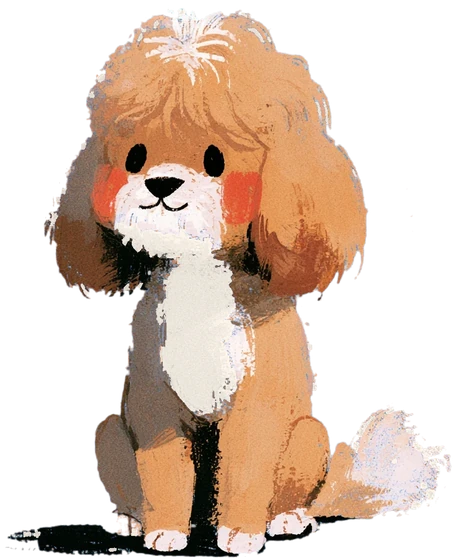
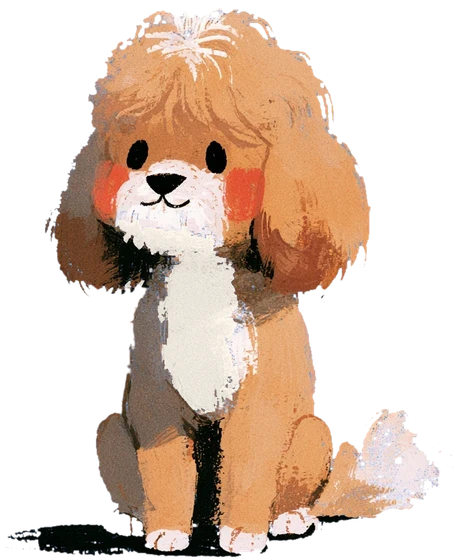
Gift: smoother — the box and letter share one fixed place (nothing jumps), Fern moves by transform only, art preloaded; Fern's head edge cleaned of white specks

diff --git a/components/sisi/journey-v2/GiftNote.tsx b/components/sisi/journey-v2/GiftNote.tsx
@@ -34,7 +34,15 @@ export function usePendingGift(enabled: boolean): Gift | null {
     let alive = true;
     fetch(preview ? "/api/gift?preview=1" : "/api/gift")
       .then((r) => r.json())
-      .then((d) => alive && d?.ok && (preview || !hasGift(d.note.gift)) && setGift(d.note))
+      .then((d) => {
+        if (!alive || !d?.ok || (!preview && hasGift(d.note.gift))) return;
+        // load the art before it is shown, so nothing pops in mid-animation
+        for (const src of PRELOAD) {
+          const img = new Image();
+          img.src = src;
+        }
+        setGift(d.note);
+      })
       .catch(() => {});
     return () => {
       alive = false;
@@ -46,6 +54,15 @@ export function usePendingGift(enabled: boolean): Gift | null {
 const ART = "/V2/gift/";
 const FERN = "/V2/poodle-walk/fern-sit.webp";
 const EASE = [0.22, 1, 0.36, 1] as const;
+const PRELOAD = [
+  FERN,
+  ...["gift-inside", "gift-lid", "gift-front", "envelope-back", "envelope-flap-open", "envelope-front", "envelope-flap-closed"].map(
+    (n) => `${ART}${n}.webp`,
+  ),
+  "/V2/onboarding/star.webp",
+];
+/** in the box, Fern's lower half is hidden behind the box's front (px) */
+const IN_BOX = 56;
 /** how far the envelope reaches below the letter once it is out (px) */
 const LETTER_DROP = 62;
 
@@ -61,23 +78,30 @@ export function GiftNote({ gift, open, onOpenMap }: { gift: Gift | null; open: b
   useEffect(() => setMounted(true), []);
   useEffect(() => {
     if (step !== "opening") return;
-    const t = setTimeout(() => setStep("note"), 1500);
+    const t = setTimeout(() => setStep("note"), 1300);
     return () => clearTimeout(t);
   }, [step]);
   useEffect(() => {
     if (step !== "note") return;
-    const a = setTimeout(() => setEnv("open"), 900);
-    const b = setTimeout(() => setEnv("out"), 1400);
+    const a = setTimeout(() => setEnv("open"), 850);
+    const b = setTimeout(() => setEnv("out"), 1250);
     return () => {
       clearTimeout(a);
       clearTimeout(b);
     };
   }, [step]);
+  // the letter is laid out from the start (hidden), so this is known before it shows
   useLayoutEffect(() => {
-    if (step !== "note" || !wrapRef.current || !letterRef.current) return;
-    const bodyH = ((wrapRef.current.offsetWidth + 12) * 118) / 352;
-    setLift(Math.round(letterRef.current.offsetHeight + LETTER_DROP - bodyH));
-  }, [step]);
+    const measure = () => {
+      if (!wrapRef.current || !letterRef.current) return;
+      const bodyH = ((wrapRef.current.offsetWidth + 12) * 118) / 352;
+      setLift(Math.round(letterRef.current.offsetHeight + LETTER_DROP - bodyH));
+    };
+    measure();
+    document.fonts?.ready.then(measure);
+    window.addEventListener("resize", measure);
+    return () => window.removeEventListener("resize", measure);
+  }, [open, gift, mounted]);
   if (!mounted || !gift) return null;
   const opened = step !== "box";
 
@@ -117,26 +141,26 @@ export function GiftNote({ gift, open, onOpenMap }: { gift: Gift | null; open: b
               <motion.div
                 className="gn-ride"
                 initial={false}
-                animate={{ y: step === "note" && env !== "out" ? lift : 0 }}
-                transition={env === "out" ? { duration: 0.8, ease: EASE } : { duration: 0.5, ease: EASE }}
+                animate={{ y: step !== "note" ? IN_BOX : env !== "out" ? lift : 0 }}
+                transition={{ duration: env === "out" ? 0.9 : 0.7, ease: EASE }}
               >
               <motion.img
                 src={FERN}
                 alt={opened ? "Fern, a little poodle" : ""}
-                className={`gn-fern${step === "note" ? "" : " is-in-box"}`}
+                className="gn-fern"
                 draggable={false}
                 initial={false}
                 animate={
                   step === "note"
-                    ? { y: ["0%", "-14%", "0%"], opacity: 1 }
+                    ? { y: ["0%", "-12%", "0%"], opacity: 1, scaleY: 1 }
                     : opened
-                      ? { y: ["75%", "-24%", "0%"], opacity: [0, 1, 1], scaleY: [0.9, 1.06, 1] }
-                      : { y: "75%", opacity: 0 }
+                      ? { y: ["70%", "-20%", "0%"], opacity: [0, 1, 1], scaleY: [0.92, 1.04, 1] }
+                      : { y: "70%", opacity: 0, scaleY: 0.92 }
                 }
                 transition={
                   step === "note"
-                    ? { duration: 0.8, times: [0, 0.45, 1], ease: "easeInOut" }
-                    : { delay: opened ? 0.3 : 0, duration: 0.75, times: [0, 0.55, 1], ease: "easeOut" }
+                    ? { duration: 0.7, times: [0, 0.45, 1], ease: ["easeOut", "easeIn"] }
+                    : { delay: opened ? 0.25 : 0, duration: 0.8, times: [0, 0.6, 1], ease: ["easeOut", "easeInOut"] }
                 }
               />
               </motion.div>
@@ -144,16 +168,18 @@ export function GiftNote({ gift, open, onOpenMap }: { gift: Gift | null; open: b
 
             {/* below Fern: the box, then the note */}
             <div className="gn-below">
-              <AnimatePresence mode="popLayout" initial={false}>
-                {step !== "note" ? (
-                  <motion.button
+              {/* the box and the letter share one place, both laid out from the start: nothing jumps */}
+              <motion.button
                     key="box"
                     type="button"
                     className="gn-box"
                     aria-label="Open the gift"
                     disabled={opened}
+                    initial={false}
+                    animate={step === "note" ? { y: 30, opacity: 0 } : { y: 0, opacity: 1 }}
+                    transition={{ duration: 0.4, ease: "easeInOut" }}
+                    style={{ pointerEvents: step === "note" ? "none" : undefined }}
                     onClick={() => setStep("opening")}
-                    exit={{ y: 40, opacity: 0, transition: { duration: 0.45, ease: "easeIn" } }}
                   >
                     {/* the open inside sits behind Fern; the front faces (gn-body) in front of her */}
                     {/* eslint-disable-next-line @next/next/no-img-element */}
@@ -174,14 +200,13 @@ export function GiftNote({ gift, open, onOpenMap }: { gift: Gift | null; open: b
                     {/* eslint-disable-next-line @next/next/no-img-element */}
                     <img src={`${ART}gift-front.webp`} alt="" className="gn-body" draggable={false} />
                   </motion.button>
-                ) : (
-                  <motion.div
-                    key="note"
+              <motion.div
                     ref={wrapRef}
                     className="gn-letter-wrap"
-                    initial={{ y: 70, opacity: 0 }}
-                    animate={{ y: 0, opacity: 1 }}
-                    transition={{ duration: 0.5, ease: EASE }}
+                    aria-hidden={step !== "note"}
+                    initial={false}
+                    animate={step === "note" ? { y: 0, opacity: 1 } : { y: 70, opacity: 0 }}
+                    transition={{ duration: 0.7, ease: EASE, delay: step === "note" ? 0.1 : 0 }}
                   >
                     {/* the envelope, layered around the letter:
                         back 0 · open flap 0 · letter 1 · front pocket 2 · closed flap 3 */}
@@ -234,8 +259,6 @@ export function GiftNote({ gift, open, onOpenMap }: { gift: Gift | null; open: b
                       </motion.article>
                     </div>
                   </motion.div>
-                )}
-              </AnimatePresence>
             </div>
           </div>
 
@@ -278,11 +301,8 @@ export function GiftNote({ gift, open, onOpenMap }: { gift: Gift | null; open: b
             .gn-for, .gn-hint { margin: 0; color: var(--sisi-paper); }
             /* Fern's place: her paws are on its bottom line */
             .gn-stage { position: relative; z-index: 1; pointer-events: none; width: 100%; height: 190px; display: flex; justify-content: center; }
-            .gn-fern { position: absolute; bottom: -6px; height: 196px; width: auto; z-index: 1; filter: drop-shadow(0 6px 10px rgba(0, 0, 0, 0.2)); }
+            .gn-fern { position: absolute; bottom: -6px; height: 196px; width: auto; z-index: 1; filter: drop-shadow(0 6px 10px rgba(0, 0, 0, 0.2)); will-change: transform, opacity; transform-origin: 50% 100%; }
             .gn-stage.is-on-note { z-index: 3; }
-            /* in the box: her lower half stays behind the box's front faces */
-            .gn-fern { transition: bottom 0.5s var(--ease-sisi, ease); }
-            .gn-fern.is-in-box { bottom: -62px; }
             .gn-glow {
               position: absolute;
               bottom: -40px;
@@ -291,9 +311,11 @@ export function GiftNote({ gift, open, onOpenMap }: { gift: Gift | null; open: b
               border-radius: 50%;
               background: radial-gradient(circle, rgba(255, 236, 170, 0.75), rgba(255, 220, 140, 0.25) 45%, transparent 70%);
               z-index: 0;
+              will-change: transform, opacity;
             }
             /* no stacking context here: the box's layers sit around Fern (inside 0 · Fern 1 · front 2 · lid 3) */
-            .gn-below { position: relative; width: 100%; display: flex; justify-content: center; }
+            .gn-below { position: relative; width: 100%; display: grid; justify-items: center; align-items: start; }
+            .gn-below > * { grid-area: 1 / 1; }
             .gn-box {
               position: relative;
               width: 190px;
@@ -311,7 +333,7 @@ export function GiftNote({ gift, open, onOpenMap }: { gift: Gift | null; open: b
             .gn-body { display: block; width: 190px; position: relative; z-index: 2; }
             .gn-inside { position: absolute; inset: 0; width: 100%; z-index: 0; }
             /* the letter: lined paper, deckled, half out of a rose envelope */
-            .gn-letter-wrap { position: relative; width: 100%; max-width: 340px; }
+            .gn-letter-wrap { position: relative; width: 100%; max-width: 340px; pointer-events: none; will-change: transform, opacity; }
             /* the envelope: one box the size of its body, flaps hinged on its top edge */
             .gn-env { position: absolute; left: -6px; right: -6px; bottom: 0; aspect-ratio: 352 / 118; pointer-events: none; }
             .gn-env img { position: absolute; left: 0; width: 100%; height: auto; }
@@ -322,7 +344,7 @@ export function GiftNote({ gift, open, onOpenMap }: { gift: Gift | null; open: b
             /* the letter shows only above the envelope's bottom edge */
             .gn-letter-clip { position: relative; z-index: 1; overflow: hidden; margin: -420px -14px 0; padding: 420px 14px ${LETTER_DROP - 16}px; margin-bottom: 16px; pointer-events: none; }
             /* (the clip ends at the envelope's painted bottom edge, not its image edge) */
-            .gn-ride { position: absolute; inset: 0; display: flex; justify-content: center; }
+            .gn-ride { position: absolute; inset: 0; display: flex; justify-content: center; will-change: transform; }
             .gn-letter {
               position: relative;
               z-index: 1;
